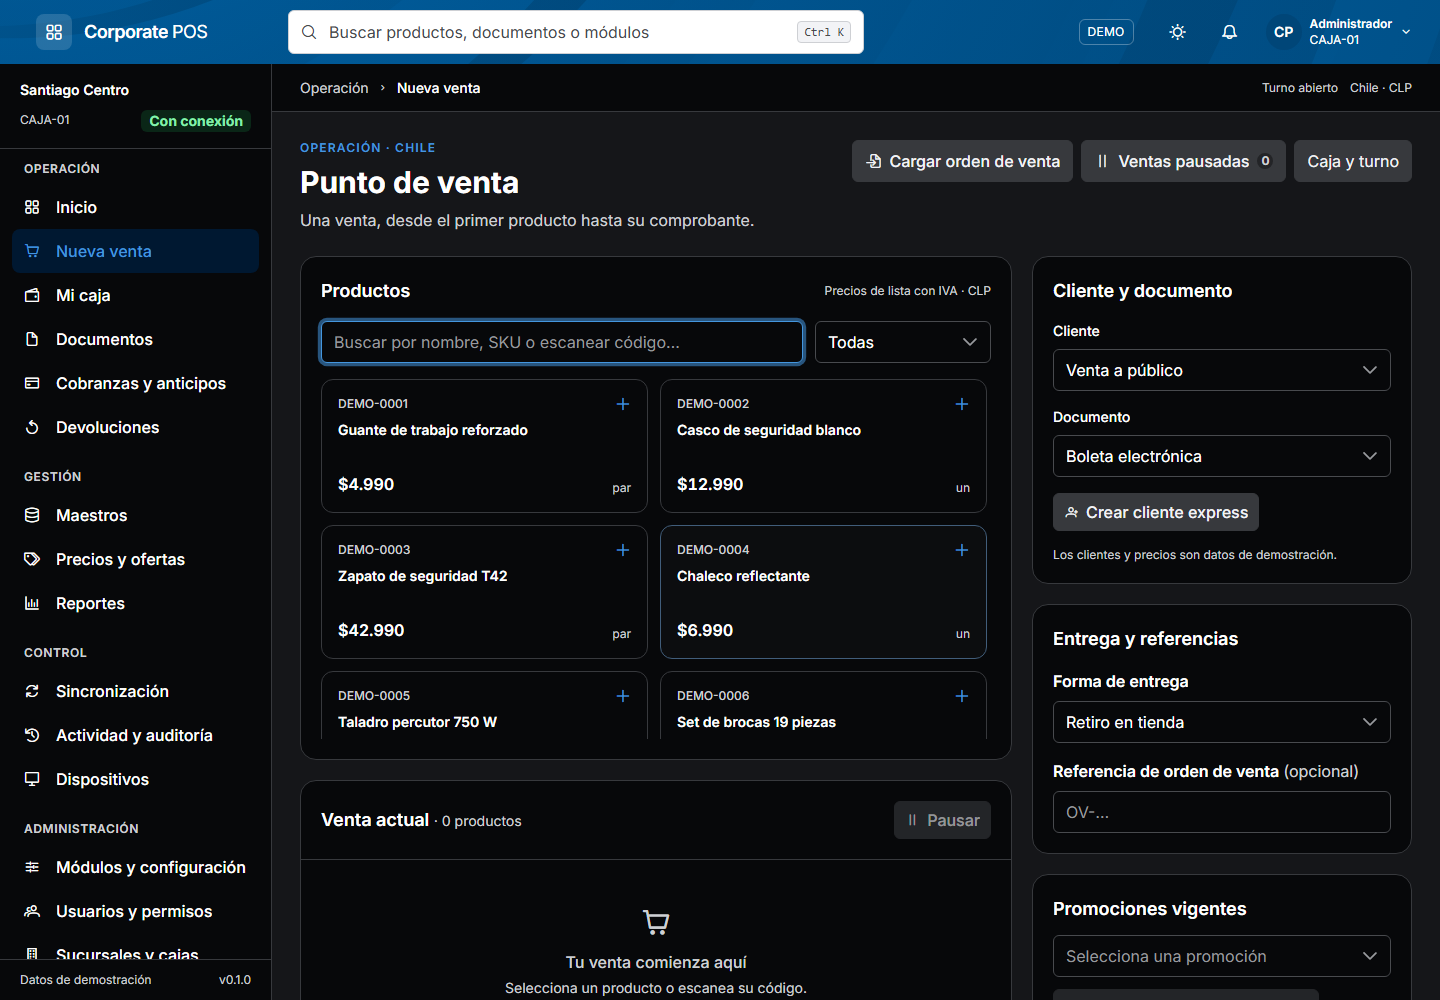
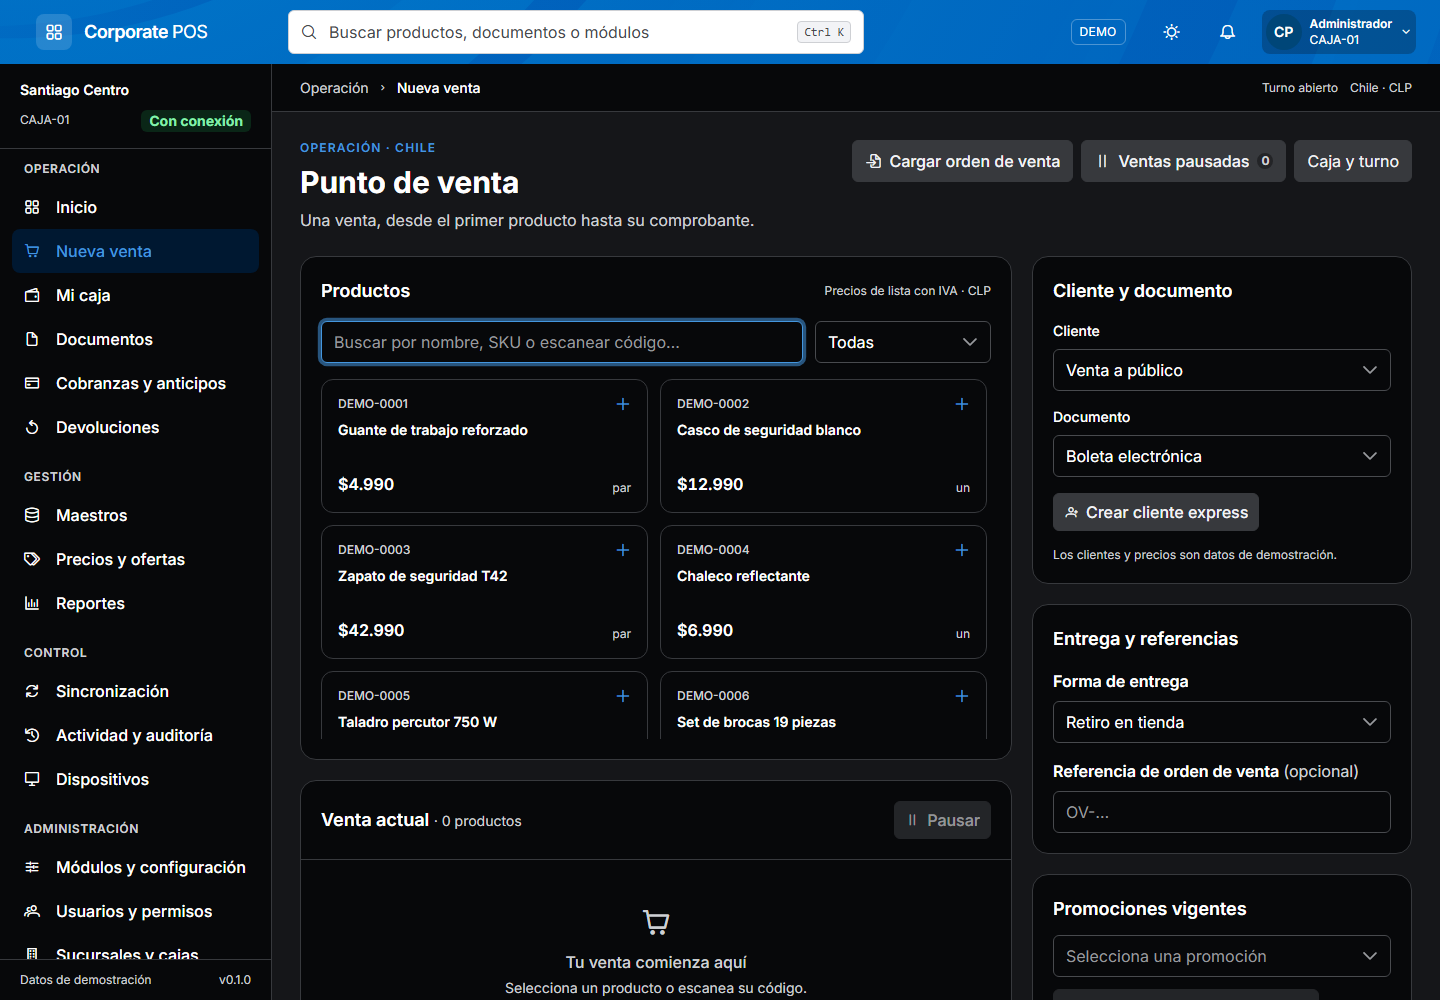
fix(ui): match published showcase header artwork and interaction states

Changed region(s): [[0.0, 0.0, 1.0, 0.062]]

diff --git a/apps/pos-web/src/styles.css b/apps/pos-web/src/styles.css
@@ -28,12 +28,52 @@ html {
 body {
   margin: 0;
 }
-/* Original prime-showcase header artwork and framing (6ad8d3d), bundled for offline use. */
+/* Header contract measured from prime-showcase-mu.vercel.app (2026-10-03).
+   Keep its original artwork and header palette independent of the newer app surfaces. */
 .brand-header-bg {
+  --pos-header-action-surface: var(--p-slate-950);
+  --pos-header-action-hover-background: color-mix(in srgb, var(--pos-header-action-surface) 25%, transparent);
+  --pos-header-profile-background: color-mix(in srgb, var(--pos-header-action-surface) 25%, transparent);
+  --pos-header-profile-hover-background: color-mix(
+    in srgb,
+    var(--pos-header-action-surface) 40%,
+    transparent
+  );
+  --pos-header-theme-hover-background: #004a7a;
+  --p-button-text-primary-color: var(--p-surface-0);
+  --p-button-text-primary-hover-background: var(--pos-header-action-hover-background);
+  --p-button-text-primary-active-background: var(--pos-header-action-hover-background);
+  --p-button-icon-only-width: 2.75rem;
+  --p-button-border-radius: 0.5rem;
   background-image: url('/images/tornado.svg');
   background-size: cover;
   background-position: center;
   background-repeat: no-repeat;
+}
+.p-dark .brand-header-bg {
+  --pos-header-action-surface: var(--p-zinc-950);
+  --pos-header-theme-hover-background: #00375c;
+}
+@media (min-width: 64rem) {
+  .brand-header-bg {
+    --pos-header-action-hover-background: color-mix(
+      in srgb,
+      var(--pos-header-action-surface) 40%,
+      transparent
+    );
+  }
+}
+.brand-header-theme-action {
+  --p-button-text-primary-hover-background: var(--pos-header-theme-hover-background);
+  --p-button-text-primary-active-background: var(--pos-header-theme-hover-background);
+}
+.brand-header-profile {
+  color: var(--p-surface-0);
+  background-color: var(--pos-header-profile-background);
+}
+.brand-header-profile:hover,
+.brand-header-profile:active {
+  background-color: var(--pos-header-profile-hover-background);
 }
 * {
   box-sizing: border-box;

diff --git a/apps/pos-web/src/app/shell/shell.component.html b/apps/pos-web/src/app/shell/shell.component.html
@@ -12,7 +12,7 @@
       icon="pi pi-bars"
       [text]="true"
       ariaLabel="Abrir navegación"
-      styleClass="!text-white lg:!hidden"
+      styleClass="h-11 lg:!hidden"
       (onClick)="mobileOpen.set(true)"
     />
     <a
@@ -50,26 +50,26 @@
       icon="pi pi-search"
       [text]="true"
       ariaLabel="Buscar"
-      styleClass="!text-white md:!hidden"
+      styleClass="h-11 md:!hidden"
       (onClick)="openSearch()"
     />
     <p-button
       [icon]="dark() ? 'pi pi-sun' : 'pi pi-moon'"
       [text]="true"
       [ariaLabel]="dark() ? 'Usar tema claro' : 'Usar tema oscuro'"
-      styleClass="!text-white !hidden sm:!inline-flex"
+      styleClass="brand-header-theme-action h-11 !hidden sm:!inline-flex"
       (onClick)="toggleTheme()"
     />
     <p-button
       icon="pi pi-bell"
       [text]="true"
       [ariaLabel]="'Notificaciones: ' + notifications().length + ' avisos'"
-      styleClass="!text-white"
+      styleClass="h-11"
       (onClick)="notificationsOpen.set(true)"
     />
     <button
       type="button"
-      class="flex items-center gap-2 p-1 rounded-lg hover:bg-white/10 cursor-pointer"
+      class="brand-header-profile flex items-center gap-2 h-11 p-1 rounded-lg cursor-pointer"
       (click)="profileOpen.set(true)"
       aria-label="Perfil y entorno de demostración"
     >

diff --git a/docs/quality-review.md b/docs/quality-review.md
@@ -10,7 +10,7 @@ La primera entrega tenía una base modular razonable, pero no justificaba afirma
 
 Se compararon el preset, `DESIGN.md`, las recetas PrimeNG, los estilos ejecutados y el formulario renderizado del Storybook original. Los presets de origen y de la primera entrega eran equivalentes: la divergencia venía de reglas CSS y variantes elegidas en los templates. El repositorio de referencia se mantuvo sin modificaciones.
 
-El encabezado recupera además `public/images/tornado.svg` de prime-showcase en `6ad8d3d0c3c171aa4495f4c280b94982415449e5`, antes de su sustitución por fondo liso. Se conserva el SVG original con la paleta Implementos, sus opacidades internas y el encuadre `cover` / `center`. Se incluye como recurso local de la web y del paquete Tauri, sin solicitudes externas ni capas que intercepten los controles.
+El encabezado usa el archivo exacto `images/tornado.svg` de [prime-showcase publicado](https://prime-showcase-mu.vercel.app/), comprobado el 3 de octubre de 2026. Esa versión conserva los tonos `#005DB9`, `#0089D6` y `#0073c8`; la revisión posterior del repositorio local tenía otra paleta. Se mantienen sus opacidades internas y el encuadre `cover` / `center`, como recurso local de la web y del paquete Tauri. Los botones del header usan los estados de la misma referencia: iconos blancos, hover oscuro al 40% en escritorio y 25% en móvil; el botón de tema y el perfil conservan sus variantes. Estos tokens se limitan al encabezado para no alterar los controles de las demás pantallas.
 
 | Hallazgo                                | Corrección y criterio                                                                                                                                           |
 | --------------------------------------- | --------------------------------------------------------------------------------------------------------------------------------------------------------------- |
